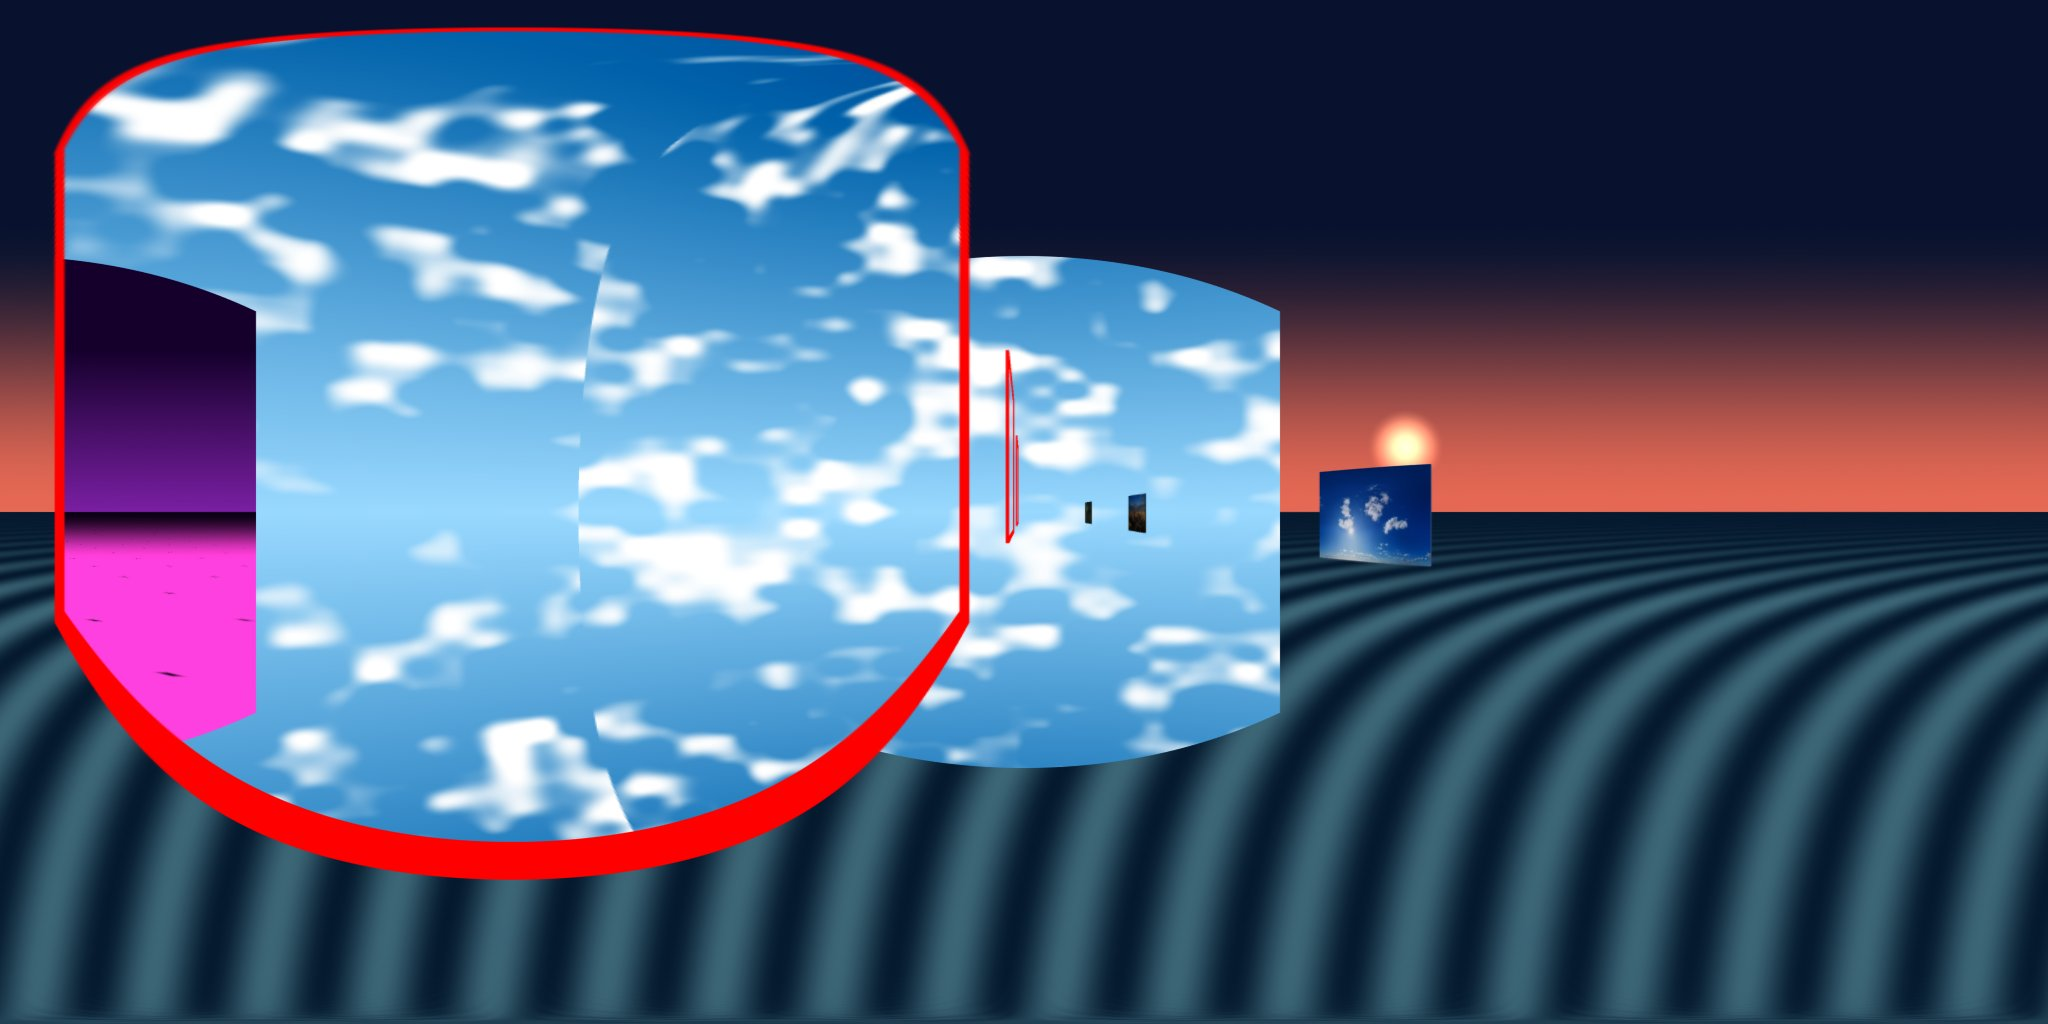
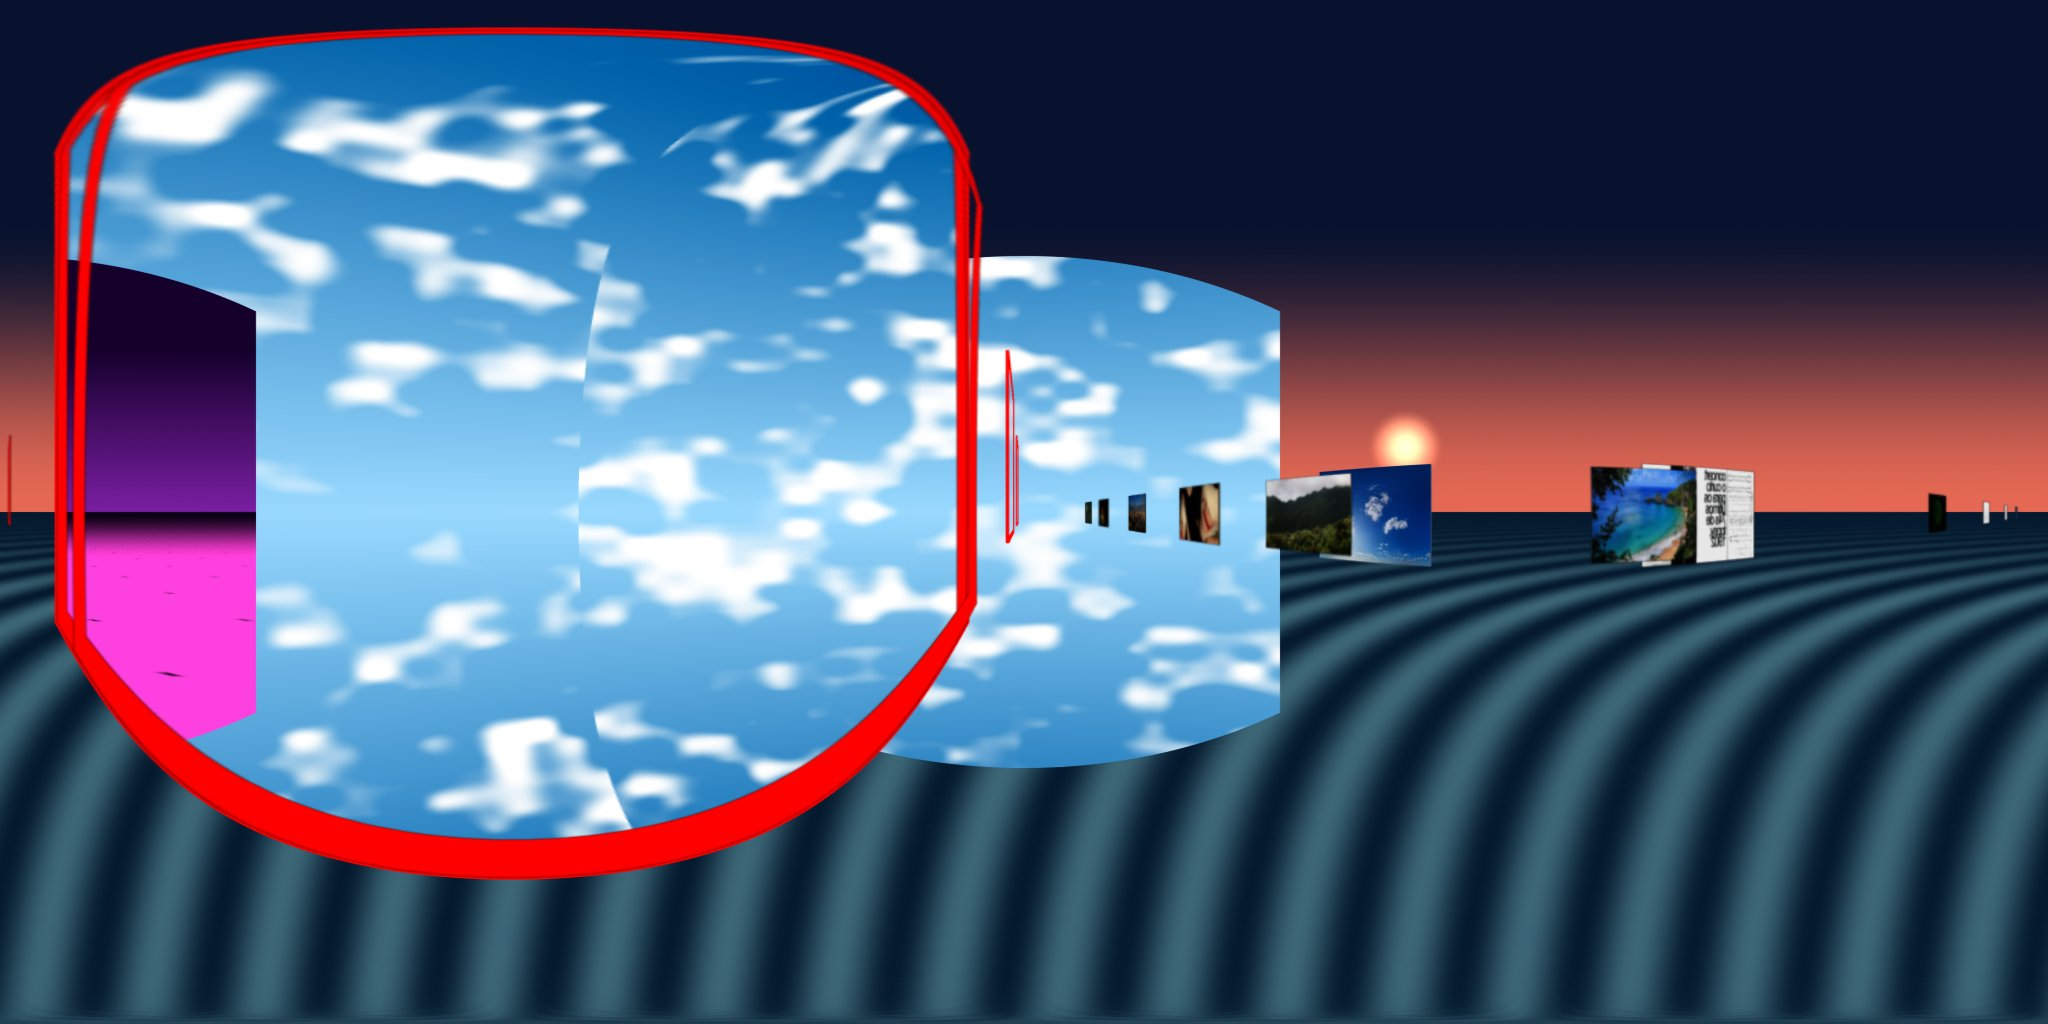
A sala 1 entra com as sete obras do autor, e a folha passa a aceitar capas sem extensão
O autor entregou a primeira folha a sério — sete obras audiovisuais, com título, créditos,
descritivo, imagem e site — e escolheu `scene1`.

- a sala tinha cinco lugares e a folha sete: dois novos, e a parede passou a sete quadros
  equidistantes (`-60…60`), porque os cinco de antes estavam espaçados de forma irregular;
- as capas vivem no Google Drive: o endereço que se copia (`/file/d/<ID>/view`) é uma página, não
  uma imagem (medido: 0 px), e o que carrega é `https://lh3.googleusercontent.com/d/<ID>`. Como
  esse endereço não tem extensão, o importador passou a aceitar **um endereço sem extensão como
  imagem** (um caminho do projeto sem extensão continua recusado);
- as obras do Drive entram na ficha por `/file/d/<ID>/preview` (medido: o leitor carrega);
- as capas eram resolvidas **uma a uma**, e sete imagens remotas somavam as esperas: a sala abria
  1,7 s depois do resto (as outras, 0,2–0,3 s). Passaram a ser resolvidas em paralelo — ~0,9 s — e
  o pior caso deixou de ser a soma (7 × 6 s) para ser a mais lenta (6 s);
- `portalDebug.built` diz quando a sala está construída (o `world` era escrito antes do build), e
  as baterias passaram a esperar por ele: mediam salas a meio;
- uma linha que tira o site **e** a capa (`-`) passa a ser recusada com a mensagem que diz qual é a
  linha, em vez de deixar o validador a falar de um mundo inválido;
- os seis retratos das portas foram regerados (a sala mudou, e um retrato é um asset derivado).
[…]

diff --git a/js/scene/scene-builder.js b/js/scene/scene-builder.js
@@ -280,8 +280,11 @@ async function resolveCovers(scene, language, parent) {
   if (wanted.length === 0) return covers;
 
   const container = parent.querySelector('a-assets') || parent.appendChild(document.createElement('a-assets'));
-  const loading = [];
-  for (const artwork of wanted) {
+  // Todas as capas **ao mesmo tempo**: em série, cada imagem remota somava a sua espera às seguintes —
+  // nesta sala (sete obras com a capa no Google Drive) isso era 1,7 s a abrir contra 0,3 s nas outras, e
+  // uma capa lenta fazia esperar por ela **e** por todas as que vinham depois. Em paralelo a sala espera
+  // pela mais lenta, não pela soma.
+  const loading = wanted.map(async (artwork) => {
     const candidates = coverCandidates(artwork, catalogue);
     const resolved = candidates.length === 0
       ? { src: DEFAULT_COVER, from: 'padrao' }
@@ -296,16 +299,16 @@ async function resolveCovers(scene, language, parent) {
     const description = (asset && textIn(asset.alt, language)) || textIn(artwork.title, language);
     if (description) el.setAttribute('alt', description);
     container.appendChild(el);
+    covers.set(artwork.id, id);
     // A malha só pode ser criada depois de a imagem estar descodificada: sem esta espera, a textura é
     // enviada para a GPU a meio e a consola diz «Texture marked for update but image is incomplete»
     // (apanhado pela bateria D40 — duas texturas boas e uma incompleta no mesmo quadro).
-    loading.push(new Promise((resolve) => {
+    await new Promise((resolve) => {
       if (el.complete && el.naturalWidth > 0) { resolve(); return; }
       el.addEventListener('load', () => resolve(), { once: true });
       el.addEventListener('error', () => resolve(), { once: true });
-    }));
-    covers.set(artwork.id, id);
-  }
+    });
+  });
   await Promise.all(loading);
   return covers;
 }

diff --git a/js/app.js b/js/app.js
@@ -43,6 +43,10 @@ window.portalDebug = {
   // Which world the page is showing (D28), for the console and the regression scripts. `state`
   // holds what the scene is made of; this says which file it was read from.
   world: null,
+  // A sala está construída (D68): `world` é escrito no início da leitura do ficheiro, mas a construção
+  // só acaba quando as capas chegarem — e uma capa remota (Google Drive, YouTube) chega centenas de ms
+  // depois. Sem este sinal, um instrumento que espera por `world` mede uma sala a meio.
+  built: false,
   setActiveDimension: setActiveDimension,
   applyStencilState: applyStencilState,
   syncStencilValues: syncStencilValues,
@@ -143,6 +147,7 @@ async function buildFromData() {
   // they came through a door (D14).
   const from = new URLSearchParams(window.location.search).get('from');
   await buildScene(data, { from });
+  window.portalDebug.built = true;
 
   // O regresso da ficha (D63): quem abriu uma obra e voltou é devolvido ao sítio onde estava — a
   // posição, o olhar e a dimensão —, em vez de ao início do mundo. A ficha pede-o com `?volta=1`, e

diff --git a/docs/ROADMAP.md b/docs/ROADMAP.md
@@ -4245,6 +4245,8 @@ alteram comportamento.
 | D65 | A capa de uma obra **por tentativas**: YouTube → capa do CSV → imagem padrão de aviso | O autor: «podemos fazer um metodo que ele busca a capa do youtube se não conseguir ele faz um fallback para imagem indicada… se nada der certo, ele mostra uma imagem padrão avisando que a capa da obra esta com problema e é necessario avisar o adminstrador da galeria». `js/scene/cover.js` tem a cadeia: (1) o **thumbnail do YouTube**, derivado do próprio endereço do vídeo (`i.ytimg.com/vi/<id>/hqdefault.jpg` — `maxresdefault` não existe para todos os vídeos, `hqdefault` existe), sem ninguém escrever nada no dado; (2) a **capa do CSV**, que é opcional e pode ser um endereço ou um ficheiro do projeto (D64); (3) `assets/covers/sem-capa.svg`, a imagem que diz «Capa indisponível · avisar o administrador da galeria» nas duas línguas. A resolução é feita **a carregar** (`Image` + `onerror`), porque é a única coisa que responde às duas perguntas ao mesmo tempo — «existe?» e «descodifica?» — e um `HEAD` não responde à segunda. A mesma cadeia serve a ficha (`<img>`, com `data-capa-de` a dizer qual ganhou) e a sala (o construtor põe o `<img>` resolvido em `<a-assets>` como `capa-<id>` e a malha usa-o). Duas consequências que a medição impôs: a malha tem de esperar que a imagem esteja descodificada (sem isso a consola diz «Texture marked for update but image is incomplete», apanhado pela D40), e uma célula `capa` com **`-`** tira a capa do dado, para a cadeia poder começar no YouTube sem nada escrito |
 | D66 | O A/B do **R14** faz-se numa página só: dois lados, uma recarga, um bloco | O autor escolheu `proximo=ensaio` para o passo seguinte ao fecho da Fase 8. O problema que isto resolve é de **protocolo**, não de código: fechar o R14 exige comparar o shader com a imagem no mesmo aparelho e na mesma sala, e a sonda mostra um lado de cada vez — duas páginas, dois relatórios, três aparelhos. Com `?ensaio=1` (`js/modules/ensaio.js`) a página faz o par sozinha: espera pela cena, aquece **10 s** e mede **45 s** do lado que o endereço diz (o shader, por omissão), guarda o resultado em `sessionStorage` (`zonas12.ensaio`) e **recarrega o mesmo endereço** com `&fase=imagem&shader=0`; a segunda fase mede, junta os dois lados e mostra **um** bloco com botão **Copiar** e outro **Repetir**. O relatório traz, por fase, o fundo (modo e `shaderId`), os quadros/s, o **pior quadro** e quantos passaram do dobro da mediana, a cadência, as atualizações, o pixelRatio com o mínimo e o máximo que a escada visitou, os atrasos e os eventos — mais a comparação dos dois lados, o aparelho e a **GPU** (`WEBGL_debug_renderer_info`), que é o que distingue os três aparelhos. A medição impôs uma linha que a sonda não tinha: numa máquina rápida os quadros ficam presos ao **vsync** e os dois lados empatam (medido no portátil com RTX 4060: **165,3 → 164,3** quadros/s, **−0,6%**, quando os mesmos dois lados num Android fraco deram **45,5** contra **50,4**), portanto o número que discrimina é o pior quadro e os quadros lentos. No fim a sessão fica limpa e o endereço volta a `?ensaio=1`: uma recarga é um ensaio novo, não metade do anterior. A bateria `tools/regression/ensaio.mjs` (**12/12**, em `all.mjs --full`) corre as duas fases em 3 s cada e verifica o que se pode estragar em silêncio: que a recarga chega, que o resumo traz os dois lados e que não sobra nada guardado. **Emenda de 2026-10-27:** o contador, a janela de medida e o divisor dos quadros passaram a sair do **mesmo** `performance.now()` — a janela abre no primeiro quadro desenhado depois do aquecimento, a aba escondida **pausa** a fase (e o tempo escondido vai declarado como `pausada`), e cada fase mostra `janela X s (desvio ±Y s)` com as duas janelas lado a lado na comparação. A bateria passou a **19 de 19** (relógio, janelas e pausa). Ver § R14 |
 | D67 | O CSV das obras é **um padrão novo, em português, com três créditos** — e a folha é **TSV** | O autor fixou o formato: `id, nome da obra, nomeAutores, nomeCoautores, nomaColaboradores, Descritivo, endereço da imagem, endereço da obra`, «só teremos os dados em português», e os três créditos concatenados na ficha como `Autor:`/`Coautor:`/`Colaborador:`. A primeira coisa que a verificação disse foi que **falta uma coluna**: o `id` **não é único** no projeto (o `0` existe em `example`, `exemplo-ficha`, `r9` e `scene1`), por isso `mundo` fica como primeira coluna — sem ela o importador não sabe onde está a obra. O resto, decidido com ele: só o **CSV** é português (o esquema, o código e os nomes de campo continuam bilingues; o dado guarda strings e **as etiquetas são da interface** — em inglês ficam «Author / Co-author / Collaborator», porque nomes não se traduzem); `Descritivo` é a **sinopse**, uma só, sem par pt/en (a exposição passa a ter uma língua no dado e a interface nas duas); o nome da obra e as descrições ficam num campo cada, sem `_pt`/`_en`. E a regra de escrita que ele impôs — «os conteúdos dos campos não estarão entre aspas **e não devem aparecer aspas na interface**» — levou ao **separador `;`** em todas as folhas: as aspas passaram a ser **delimitadores e nunca conteúdo** (o leitor aceita-as, tira-as, e uma aspa escrita duas vezes continua a ser uma aspa no texto), e com o `;` uma **vírgula dentro de um texto é texto** — a alternativa (`;` não, `,` sim) foi medida e **descartada**: numa folha separada por vírgulas, uma vírgula no meio de uma descrição **desloca as colunas em silêncio**, porque a linha fica com o número certo de células e ninguém pode detetar o engano. O leitor passou a aceitar **os dois separadores** (detetados pelo cabeçalho) e a comparar o cabeçalho **sem acentos, sem maiúsculas e sem espaços** (`Endereço da imagem` = `endereco_da_imagem`); uma célula de crédito vazia **tira** aquele crédito; e ganhou as duas correções que a folha nova fez aparecer (uma obra que deixa de ser site ficava com `kind: "site"` e um erro obscuro — agora o `kind` segue a capa e a linha diz o que está errado; e `--file` com caminho absoluto construía `d:\…\d:\…` — agora resolve). O dado foi migrado (`author` → `authors`/`coAuthors`/`collaborators` em todos os mundos e no fixture `exemplo-ficha`), o painel do editor passou a ter os três campos de texto, e as folhas passaram a **tabulação** (`data/obras.tsv`, `data/obras.exemplo.tsv`, `data/csv/MODELO.tsv`) — a resposta dele a seguir, «teremos que utilizar o formato tsv, é possível», e a razão é a mesma do `;` levada ao fim: **com tabulação nenhum texto precisa de aspas**, nem uma sinopse com vírgulas **e** pontos e vírgulas ao mesmo tempo, porque o separador não aparece em português escrito. A tabulação também é o que uma folha de cálculo põe na área de transferência, e é o «Texto separado por tabulações» do Excel — que grava em **UTF-16**; o leitor passou a decidir a codificação pelo **BOM** (UTF-16LE, UTF-16BE ou UTF-8 com BOM), porque lido como UTF-8 o ficheiro do Excel é lixo em cada letra acentuada. Provando o caminho: `--check` diz **«a folha não muda nada»**, `validate` sai a **0**, as baterias ficam a **19 de 19** (`csv.mjs` — tabulação, `;` e `,` antigos, tabulação a solto recusada, tabulação entre aspas como texto, UTF-16, UTF-8 com BOM e os créditos) e **78 de 78** (`obra.mjs`, com o caso dos três créditos e a etiqueta inglesa), e o `all.mjs --full` a **26 de 26** em **800,1 s** |
+| D68 | A sala 1 entra com sete obras — e uma capa remota pode não ter extensão | O autor entregou a primeira folha a sério (a «sala 1», sete obras audiovisuais, texto e créditos verdadeiros) e escolheu pô-la em scene1. Três coisas tiveram de mudar para ela entrar. **A sala tinha cinco lugares e a folha sete**: criaram-se os dois que faltavam e a parede passou a sete quadros equidistantes (-60…60), porque os cinco de antes estavam espaçados de forma irregular. **As capas vivem no Google Drive** e o endereço que se copia do Drive — /file/d/<ID>/view — é uma **página**, não uma imagem: como <img> mede 0 px, e o uc?export=view&id= falha do mesmo modo; o que carrega é o endereço directo https://lh3.googleusercontent.com/d/<ID> (medido: 200, 1179 px). Esse endereço não tem extensão nenhuma, e o importador decidia o tipo da capa pela extensão — recusava uma imagem boa. Passou a aceitar **um endereço sem extensão como imagem** (um caminho do projeto sem extensão continua recusado, porque aí o ficheiro sabe-se). Para as obras do Drive, o endereço que a ficha embute é o /file/d/<ID>/preview (medido: carrega o leitor). **E sete capas remotas atrasaram a sala**: as capas eram resolvidas **uma a uma**, e cada ida à rede somava à seguinte — a sala 1 abria 1,7 s depois do resto (as outras, 0,2–0,3 s). Passaram a ser resolvidas em paralelo: ~0,9 s, e o pior caso deixou de ser a soma (7 × 6 s) para ser a mais lenta (6 s). Também se corrigiu uma mensagem: uma linha que tira o site **e** a capa (-) deixava o mundo inválido com um erro do validador em vez de dizer qual era a linha. Medido: alidate a 0, csv.mjs 21/21, obra.mjs 82/82, os doze testes 35/35 e as portas 30/30 |
+
 
 **D48 a D51 fechadas em 2026-10-23** — a **Fase 5** (a gravação direta), que a Fase 4 tinha deixado
 condicionada à fricção de exportar. O que se decidiu, e o que se recusou: **um** servidor de

diff --git a/docs/PRE-EXPOSICAO.md b/docs/PRE-EXPOSICAO.md
@@ -10,10 +10,12 @@ ponto diz o que fazer e **como se sabe que ficou feito**.
 
 ---
 
-## 1. O texto definitivo das obras (obrigatório)
+## 1. O texto definitivo das obras
 
-Hoje o `data/obras.tsv` está preenchido com texto **provisório**, para aprovação do circuito: autores
-`autorA`/`autorB`/`AutorC` e sinopses «Texto provisório: …». Um visitante leria isso.
+`scene1` **está feito** (2026-10-27): as sete obras da sala 1 entraram com o texto do autor, os créditos
+e os endereços, e a folha `data/obras.tsv` é a fonte da verdade. `scene2` (3 obras) e `scene3` (2
+obras) continuam com texto **provisório** — autores `autorA`/`autorB`/`AutorC` e sinopses «Texto
+provisório: …» — à espera das folhas dessas salas.
 
 O formato é de **2026-10-27** (D67), todo em **português**, nove colunas separadas por **tabulação** e
 **sem aspas**: `mundo`, `id`, `nome da obra`, `nomeAutores`, `nomeCoautores`, `nomaColaboradores`,
@@ -42,37 +44,32 @@ resultado no ficheiro, que é o mesmo formato.
 
 - `node tools/artwork/from-csv.mjs --check` disser **«a folha não muda nada: o dado já diz o mesmo»**;
 - `node tools/scene/validate.mjs` terminar com **0** erros e **0** avisos;
-- as fichas das 10 obras mostrarem o texto novo (no computador e no telemóvel — roteiro A1 a A6).
+- as fichas das obras de cada sala mostrarem o texto novo (no computador e no telemóvel — roteiro A1 a A6).
 
-## 2. A obra de vídeo de laboratório (obrigatório)
+## 2. A obra de vídeo de laboratório — **feita** (2026-10-27)
 
-`scene1` **id 2** é «Vídeo de teste»: aponta para um vídeo do YouTube que serve **só** para exercitar o
-tipo `site`, o embed e a cadeia da capa. Não é uma obra da exposição.
+`scene1` **id 2** era «Vídeo de teste», um vídeo do YouTube que servia só para exercitar o tipo `site`,
+o embed e a cadeia da capa. A sala 1 passou a ter as sete obras do autor e essa linha desapareceu: a
+folha de produção não tem nenhum endereço que não seja de uma obra real.
 
-**Duas saídas, e a escolha é sua**
+## 3. As capas
 
-- **Sem site:** apagar o `endereço da obra` da linha na folha **e dar-lhe uma imagem** na coluna
-  `endereço da imagem` (a obra passa a ser essa imagem), com um nome, créditos e descritivo de verdade
-  no mesmo passo que o ponto 1. A célula `endereço da obra` vazia tira o site; o importador **recusa**
-  se a linha não disser o que a obra passa a mostrar — é de propósito, porque um «site» sem site
-  deixaria a obra invisível;
-- **Sem obra:** retirar a obra da sala no editor, ou no dado. Nesse caso o `id` fica livre e as linhas
-  seguintes da folha mantêm o seu.
+As sete obras da sala 1 têm a capa no **Google Drive**, servida pelo endereço directo
+`https://lh3.googleusercontent.com/d/<ID>` — o `/file/d/<ID>/view` é uma **página** e não carrega como
+imagem (medido: 0 px), e o `uc?export=view&id=` falha do mesmo modo. `scene2` e `scene3` continuam a
+apontar para ficheiros do projeto.
 
-**Ficou feito quando** a ficha `/obra.html?mundo=scene1&id=2` não tiver o leitor do YouTube, e nenhuma
-ficha de produção tiver um endereço que não seja de uma obra real.
+Custo medido: sete capas remotas são sete idas à rede; a sala 1 abria **1,7 s** depois do resto da
+exposição (as outras salas, 0,2–0,3 s) porque as capas eram resolvidas **uma a uma** — desde
+2026-10-27 são resolvidas em paralelo e a sala 1 abre em ~0,9 s. Se a exposição for para telemóveis
+fracos, a alternativa é servir as capas numa versão menor (`…/d/<ID>=w800`) ou alojá-las no projeto.
 
-## 3. As capas (obrigatório)
+**O que fazer:** abrir cada ficha e olhar para a imagem. Confirmar que é a obra certa — na sala 1 as
+sete são fotogramas das próprias obras; as capas de `scene2`/`scene3` continuam a apontar para o
+panorama (por exemplo `Floresta` a apontar para `cidade-d0-forest.jpg`) e serão substituídas com as
+folhas dessas salas.
 
-As dez obras apontam o `endereço da imagem` para ficheiros do projeto; a do vídeo vem do YouTube. A
-cadeia do D65 mostra a **imagem padrão** («Capa indisponível · avisar o administrador») quando nada
-carrega — e isso é a rede, não o resultado desejado.
-
-**O que fazer:** abrir cada ficha e olhar para a imagem. Confirmar que é a obra certa (e não o panorama
-de outra sala, por exemplo — `Cidade, na praia` a apontar para a cidade está certo; `Floresta` a apontar
-para `cidade-d0-forest.jpg` também).
-
-**Ficou feito quando** nenhuma das dez mostrar a imagem de aviso, e as dez forem reconhecíveis.
+**Ficou feito quando** nenhuma obra mostrar a imagem de aviso, e todas forem reconhecíveis.
 
 ## 4. O ID do Google Analytics (se houver propriedade)
 
@@ -112,4 +109,4 @@ browser guarda o JavaScript da visita anterior e é isso que faz uma correção 
 | | |
 | --- | --- |
 | **Fase 8** | fechada em 2026-10-27, com os números no [roadmap](ROADMAP.md) (§ «Fase 8») |
-| **Pré-exposição** | pontos **1, 2, 3** obrigatórios; **4** só se houver propriedade; **5** opcional |
+| **Pré-exposição** | sala 1 entregue: pontos **1** (sala 1) e **2** feitos; falta o texto de `scene2`/`scene3`; **3** a conferir; **4** só se houver propriedade; **5** opcional |

diff --git a/data/csv/LEIA-ME.md b/data/csv/LEIA-ME.md
@@ -64,7 +64,7 @@ forma de não trocar um `id` sem querer.
 | `nomeCoautores` | co-autoria, com a mesma regra |
 | `nomaColaboradores` | colaborações, com a mesma regra (aceita-se também `nomeColaboradores`) |
 | `Descritivo` | o texto da ficha (a sinopse); o cartão cresce com ele |
-| `endereço da imagem` | um caminho do projeto (`assets/artworks/eiffel.jpg`) ou um endereço; **vazio** = fica a que já está; `-` = tira a capa |
+| `endereço da imagem` | um caminho do projeto (`assets/artworks/eiffel.jpg`) ou um endereço; **vazio** = fica a que já está; `-` = tira a capa. Um endereço **sem extensão** é aceite como imagem (é o caso das capas no Google Drive: `https://lh3.googleusercontent.com/d/<ID>`) |
 | `endereço da obra` | o site, se a obra for um jogo ou uma escultura interactiva: **um**, a começar por `http://` ou `https://`. Vazio tira o site — e então a linha tem de dar uma **imagem** na coluna anterior |
 
 O cabeçalho é comparado **sem acentos, sem maiúsculas e sem espaços a mais**: `Endereço da imagem`,
